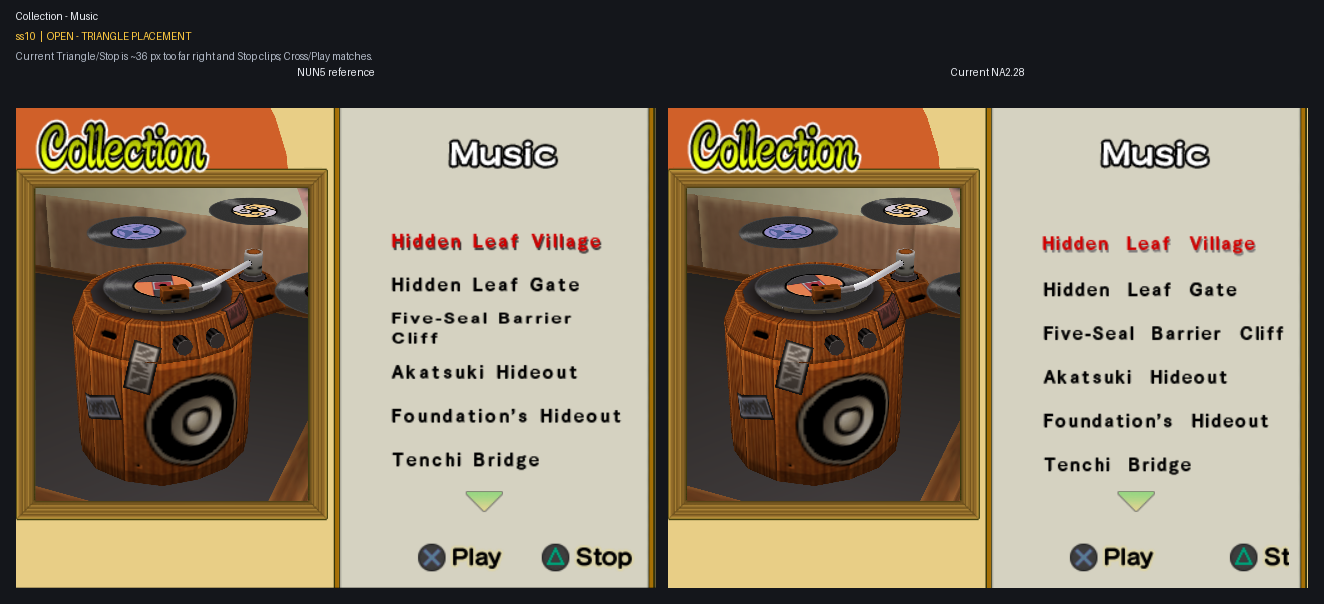
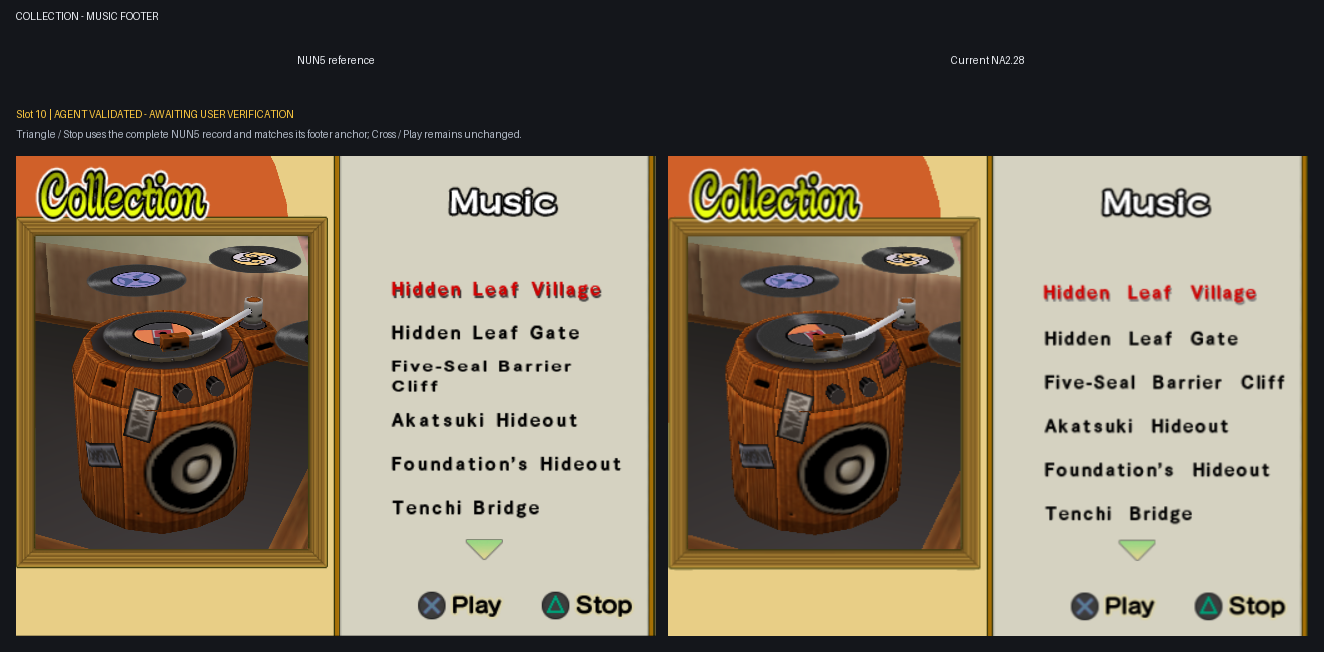
[UI Translation] Fix Collection Music Stop footer

diff --git a/na2_patcher/tests/test_texture_patcher.py b/na2_patcher/tests/test_texture_patcher.py
@@ -1490,6 +1490,9 @@ class UiTextureTests(unittest.TestCase):
                 "UI-ELF-008-11",
                 "UI-ELF-008-12",
                 "UI-ELF-008-13",
+                "UI-ELF-008-14",
+                "UI-ELF-008-15",
+                "UI-ELF-008-16",
             ],
         )
         self.assertEqual(
@@ -1508,6 +1511,9 @@ class UiTextureTests(unittest.TestCase):
                 "replace",
                 "replace",
                 "replace",
+                "copy",
+                "replace",
+                "replace",
             ],
         )
         self.assertEqual(
@@ -1519,6 +1525,9 @@ class UiTextureTests(unittest.TestCase):
                 "na2_elf",
                 "na2_elf",
                 "na2_elf",
+                "na2_etc",
+                "na2_etc",
+                "na2_etc",
                 "na2_etc",
                 "na2_etc",
                 "na2_etc",
@@ -1544,6 +1553,9 @@ class UiTextureTests(unittest.TestCase):
                 0x6D4,
                 0x738,
                 0x2E7F0,
+                0x2E798,
+                0x764,
+                0x2E7F8,
             ],
         )
         self.assertEqual(
@@ -1560,6 +1572,9 @@ class UiTextureTests(unittest.TestCase):
                 "00000000000000000000000000000000",
                 "60F20D0C00000000",
                 "60F20D0C00000000",
+                "60F20D0C00000000",
+                "00000CC2",
+                "7800300048001800",
                 "60F20D0C00000000",
                 "00000CC2",
             ],
@@ -1580,6 +1595,9 @@ class UiTextureTests(unittest.TestCase):
                 "",
                 "",
                 "",
+                "nun5_elf",
+                "",
+                "",
             ],
         )
         self.assertEqual(
@@ -1596,6 +1614,9 @@ class UiTextureTests(unittest.TestCase):
                 None,
                 None,
                 None,
+                None,
+                None,
+                0x4DDC78,
                 None,
                 None,
             ],
@@ -1616,10 +1637,13 @@ class UiTextureTests(unittest.TestCase):
                 "",
                 "",
                 "",
+                "900030004C001800",
+                "",
+                "",
             ],
         )
         self.assertEqual(
-            [item.replacement_hex for item in edits[-9:]],
+            [item.replacement_hex for item in edits[4:]],
             [
                 "C243023C",
                 "E743023C",
@@ -1630,6 +1654,9 @@ class UiTextureTests(unittest.TestCase):
                 "CCCF1A0CC0C1033C",
                 "CCCF1A0C00C1033C",
                 "00006CC2",
+                "",
+                "CCCF1A0C00C0033C",
+                "000020C2",
             ],
         )
 

diff --git a/docs/knowledge/localization/ui/collection.md b/docs/knowledge/localization/ui/collection.md
@@ -136,8 +136,9 @@ void draw_home_action_prompt(Sprite *icon, Sprite *label, int state) {
 
 NA2's Play record is `(120,24,72,24)`, while the NUN5 HOME atlas and localized
 record use `(144,24,72,24)`. The 24-pixel U-coordinate mismatch produces the
-captured `Pl...` clipping on both Movie and Music. Only the reviewed Play
-record is copied. The adjacent state-4 Stop record remains unchanged.
+captured `Pl...` clipping on both Movie and Music. The later paired ss10 Music
+capture reviews the adjacent state-4 Stop record as well: NA2 uses
+`(120,48,72,24)`, while NUN5 uses `(144,48,76,24)`.
 
 ## Collection state footer positions
 
@@ -201,6 +202,8 @@ the task-owned paired Slot 3 state.
 | state 1 effective X | `380` | `380-12=368` |
 | state 2 effective X | `380` | `380-44+56-(72/2)=356` |
 | state 3 effective X | `460` | `460-8=452` |
+| state 4 prompt X | `460` | `460+(76-64)/2-8=458` |
+| state 4 label X | `460-35=425` | `458-(76/2)=420` |
 
 The official NUN5 helper reads signed regional globals for states 1 and 3.
 State 2 instead asks the localized rectangle accessor for its 72-pixel width
@@ -217,11 +220,13 @@ void draw_home_action_prompt(HomePromptState state) {
     float icon_x = state == CROSS ? 380.0f - 12.0f
                  : state == PLAY  ? 380.0f - 24.0f
                  : state == BACK  ? 460.0f - 8.0f
-                 : /* STOP */       original_x;
+                 : /* STOP */       460.0f - 2.0f;
     draw_common_prompt(icon_x, original_y, state);
 
     if (state == PLAY) {
         draw_label_at(380.0f - 59.0f, original_label_y);
+    } else if (state == STOP) {
+        draw_label_at(460.0f - 40.0f, original_label_y);
     }
 }
 ```
@@ -239,20 +244,32 @@ void draw_home_action_prompt(HomePromptState state) {
 - ETC file/load `0x738` / `0x006B4638`: state 3 redirects through the wrapper
   with `-8.0`.
 - ETC file/load `0x2E7F0` / `0x006E26F0`: state 2 changes only its first
-  label-local X offset from `-35.0` to `-59.0`. The adjacent state-4 Stop
-  offset remains unchanged.
+  label-local X offset from `-35.0` to `-59.0`.
+- ETC file `0x2E798`: copy the exact NUN5 localized Stop rectangle
+  `(144,48,76,24)` from SLES file `0x4DDC78` over NA2's
+  `(120,48,72,24)` rectangle.
+- ETC file/load `0x764` / `0x006B4664`: state 4 redirects through the same
+  wrapper with `-2.0`, the exact result of NUN5's
+  `(76-64)/2-8` centering arithmetic.
+- ETC file/load `0x2E7F8` / `0x006E26F8`: state 4 changes its label-local X
+  offset from `-35.0` to `-40.0`, reproducing NUN5 label X=`420`.
 
 The NUN5 helper code itself is not a safe byte donor: it calls different
 language accessors and reads build-specific GP-relative regional globals.
 The wrapper is therefore an authored ABI-preserving port of the verified NUN5
-arithmetic. The pristine zero range, all three call guards, and the data guard
-were confirmed in both the clean source and task-owned state. The guarded Slot
-3 Music render aligns Play and Back with the official NUN5 capture. A newer
-paired Slot 2 Collection Characters state independently passed the same five
-guards; applying the already-canonical helper rows aligned its OK/Back groups
-with NUN5 without any new binary edit. Confidence is high for both screens and
-the shared helper behavior; other retained screens that call it remain
-individually validated before acceptance.
+arithmetic. The pristine zero range, all four call guards, and both data guards
+were confirmed in the clean source and task-owned states. The guarded Slot 3
+Music render aligns Play and Back with the official NUN5 capture. A newer
+paired Slot 2 Collection Characters state independently passed the five
+earlier guards; applying the already-canonical helper rows aligned its OK/Back
+groups with NUN5 without any new binary edit. The ss10 Stop extension is
+verified from the owned paired state, live NUN5 English regional offsets
+`-12`/`-8`, live 64-pixel Triangle and 76-pixel Stop records, and the bounded
+homologous helper disassembly. A guarded task-owned runtime state with the
+three exact canonical edits renders the complete Triangle/Stop group at the
+NUN5 footer anchor while leaving Cross/Play unchanged. It remains awaiting
+explicit user verification. Confidence is high for the shared helper
+arithmetic.
 
 Useful negative result: changing only the nominal `0x2E7E0` table cannot
 express the helper's three distinct `-12`, `-24`, and `-8` state deltas. The
@@ -331,6 +348,7 @@ medium for the exact indirect parent edge.
 | Movie rectangle | `0x30498` / `0x006E4398` | `(1,37,136,34)` | NUN5 ELF `0x4DDC58` / `0x005DDAD8` | `(0,28,96,28)` |
 | Music rectangle | `0x304A0` / `0x006E43A0` | `(1,83,80,37)` | NUN5 ELF `0x4DDC60` / `0x005DDAE0` | `(0,56,96,28)` |
 | Play rectangle | `0x2E790` / `0x006E2690` | `(120,24,72,24)` | NUN5 ELF `0x4DDC70` / `0x005DDAF0` | `(144,24,72,24)` |
+| Stop rectangle | `0x2E798` / `0x006E2698` | `(120,48,72,24)` | NUN5 ELF `0x4DDC78` / `0x005DDAF8` | `(144,48,76,24)` |
 | viewer-control positions | `0x2EB40` / `0x006E2A40` | `(344,360)`, `(232,360)`, `(66,360)`, `(148,360)` | `0x283D0` / `0x006EF0D0` | `(206,364)`, `(99,364)`, `(97,339)`, `(207,339)` |
 | viewer-control rectangles | `0x30AB0` / `0x006E49B0` | `(1,72,108,24)`, `(1,48,108,24)`, `(1,96,108,24)`, `(120,1,108,23)` | `0x29A90` / `0x006F0790` | `(1,72,108,24)`, `(1,48,108,24)`, `(1,96,112,24)`, `(144,1,112,23)` |
 
@@ -416,9 +434,9 @@ respectively `220 + 118 = 338` and `233 + 144 = 377`.
 - Movie/Music list wording, wrapping, and font spacing differ in the paired
   screenshots, but they are text-rendering behavior rather than HOME texture
   rectangles and remain outside this texture-only correction.
-- The adjacent Stop rectangle and the Controls/Display/Hide prompt records
-  were not visible in these captures, so copying them would exceed the
-  screen-by-screen evidence boundary.
+- The Controls/Display/Hide prompt records were not visible in these captures,
+  so copying them would exceed the screen-by-screen evidence boundary. The
+  later ss10 Music pair separately supplied evidence for Stop.
 - The accepted `Back` prompt is drawn by the common action-prompt family, not
   the four-item viewer-control renderer, and remains untouched.
 - The second four-rectangle consumer `FUN_006bdaa0` / `FUN_006d0d10` uses a

diff --git a/na2_patcher/features/localization/README.md b/na2_patcher/features/localization/README.md
@@ -1655,15 +1655,20 @@ task-owned Slot 2 render matches the NUN5 Collection-root footer.
 
 Collection Music uses the different HOME action helper `FUN_006b44b0` and the
 nominal table at ETC `0x2E7E0`. NUN5 homolog `FUN_006c7250` applies
-state-specific localized geometry: Cross `-12`, width-derived Play `-24`, and
-Triangle `-8`. Its GP-relative regional globals and language accessors are not
-ABI-compatible with NA2, so `UI-ELF-008` ports the arithmetic through one
-four-instruction tail-call wrapper in load-preserved MWO3 header padding,
-redirects the helper's three compositor calls, and changes only the Play
-label's local X offset from `-35` to `-59`. A guarded task-owned Slot 3 render
-matches the NUN5 Play/Back anchors. The earlier Slot 2 failure of this helper
-remains useful evidence that the two Collection footer families are distinct,
-not evidence against the helper's actual HOME consumers.
+state-specific localized geometry: Cross `-12`, width-derived Play `-24`,
+Triangle/Back `-8`, and a width-derived Stop layout. Its GP-relative regional
+globals and language accessors are not ABI-compatible with NA2, so
+`UI-ELF-008` ports the arithmetic through one four-instruction tail-call
+wrapper in load-preserved MWO3 header padding. The helper's four compositor
+calls use exact deltas `-12`, `-24`, `-8`, and `-2`; the Play and Stop labels
+use local X offsets `-59` and `-40`. State 4 also copies the exact NUN5
+`(144,48,76,24)` Stop rectangle. A guarded task-owned Slot 3 render matches
+the NUN5 Play/Back anchors. A guarded task-owned ss10 render also matches the
+NUN5 Triangle/Stop anchor and preserves the matched Cross/Play group; explicit
+user verification remains. The earlier
+Slot 2 failure of this helper remains useful evidence that the two Collection
+footer families are distinct, not evidence against the helper's actual HOME
+consumers.
 
 Exact mappings, reconstruction, side effects, and runtime evidence are
 preserved in `docs/knowledge/localization/ui/options.md`,

diff --git a/docs/workstreams/ui_translation/plan.md b/docs/workstreams/ui_translation/plan.md
@@ -547,9 +547,12 @@ The user's final paired visual inspection accepted Slot 4 as perfect on
 2026-07-22; Slots 5 and 6 remain runtime-proven. The accepted Slot 4 savestate
 pair and active mismatch-list entry were then removed under workstream policy.
 
-The remaining maintained mismatch list contains only Collection Music ss10,
-where the Triangle/Stop footer group is approximately 36 pixels too far right
-and clips at the screen edge while Cross/Play already matches. Battle Results
+The remaining maintained mismatch list contains only Collection Music ss10.
+Its Triangle/Stop correction is implemented and agent-validated, but remains
+awaiting explicit user verification. The patch copies NUN5's exact
+`(144,48,76,24)` Stop record, applies the homologous state-4 compositor delta
+`-2`, and changes the Stop-label local X offset from `-35` to `-40`;
+Cross/Play remains unchanged and matched. Battle Results
 screen 2, Ninja Song details ss8, Victory ss7 all-character donor coverage,
 Character Items transition behavior, and the Cross/Triangle-label batch are
 user-accepted.

diff --git a/docs/workstreams/ui_translation/epics/remaining_ui/README.md b/docs/workstreams/ui_translation/epics/remaining_ui/README.md
@@ -7,13 +7,14 @@ the right.
 
 ## Remaining subtasks
 
-1. Collection Music ss10: the Triangle/Stop footer group is approximately
-   36 pixels too far right in Current NA2.28, clipping `Stop` at the right
-   edge. The Cross/Play group already matches and is not part of this subtask.
-   The copied pair, hashes, and provenance are under
+1. Collection Music ss10: implemented and agent-validated; explicit user
+   verification remains. The exact NUN5 Stop record plus its homologous
+   state-4 geometry now render the complete Triangle/Stop group at the NUN5
+   footer anchor. Cross/Play remains unchanged and matched. The copied input
+   pair, hashes, and provenance are under
    `@work/UI translation/inputs/sstates/triangle_placement_ss10_20260726/`;
-   screenshots extracted from those owned copies are under
-   `@work/UI translation/inputs/screenshots/triangle_placement_ss10_20260726/`.
+   the actual post-change capture is
+   `@work/UI translation/artifacts/screenshots/collection-music-stop-v1.png`.
 
 ## User-accepted completed cases
 
